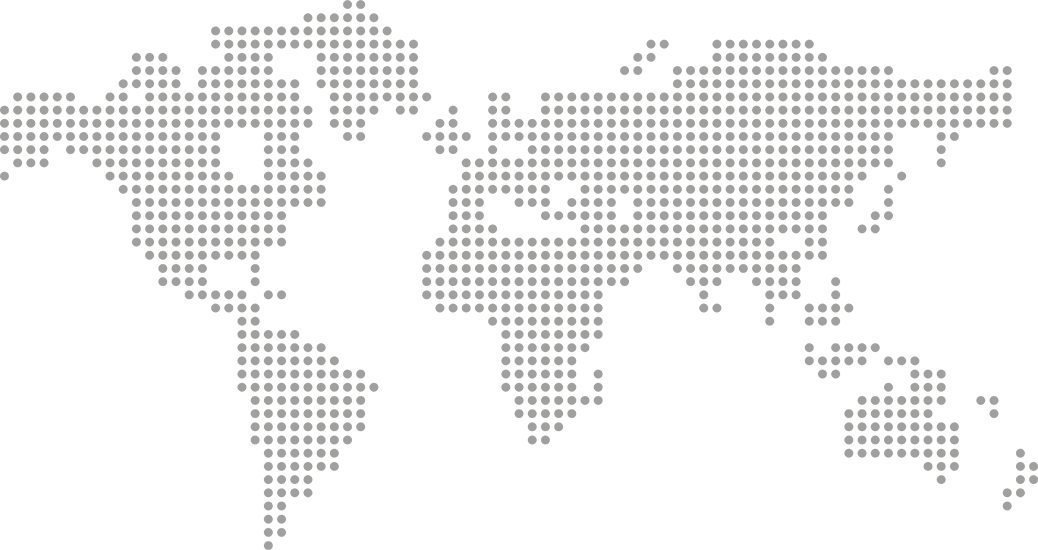
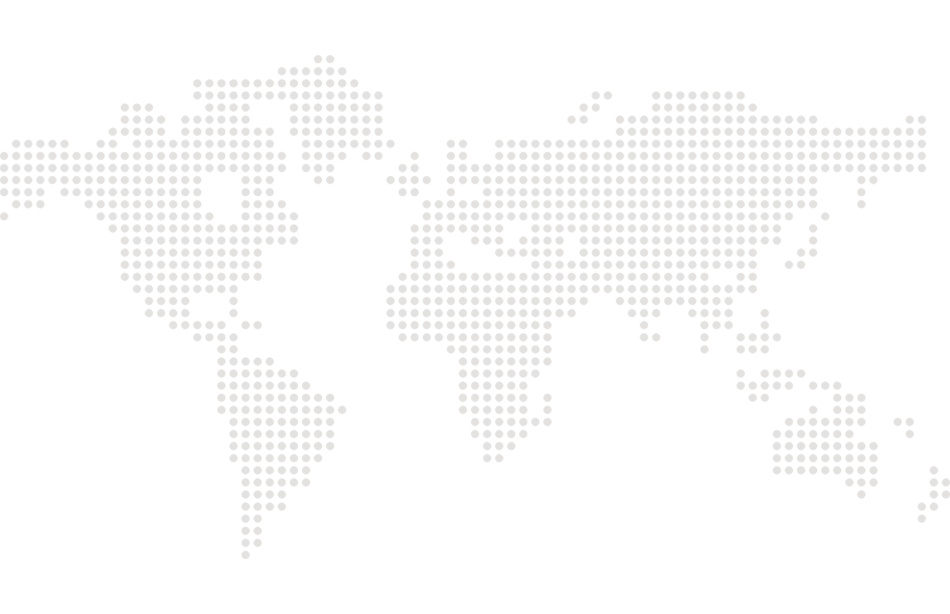
Work in progress

Changed region(s): [[0.0, 0.0, 0.9768, 1.0], [0.9768, 0.7727, 1.0, 0.8964], [0.9463, 0.8964, 0.9768, 0.9273]]

diff --git a/style/custom.css b/style/custom.css
@@ -15,25 +15,88 @@ font-family: 'Roboto', sans-serif;
         url('../fonts/Bringin/Bringin.otf') format('otf');
 }
 
-/* -- Menu part -- */
+/* -- Text styles -- */
 
-header {
-    background: url('/img/bg/header-bg.png') no-repeat;
-    background-position: center top; 
-    overflow: hidden;
+h2 {
+    font-family: 'Open Sans', sans-serif;
+    font-size: 20px;
+    font-weight: 700;
+    color: #2c2e37;
+    text-transform: uppercase;
+    letter-spacing: 2px;
 }
 
-.container-wrap {
-    width: 100%;
-    overflow: hidden;
-    background: rgba(255, 255, 255, 0.3);
+h3 {
+    font-family: 'Open Sans', sans-serif;
+    font-size: 14px;
+    font-weight: 400;
+    line-height: 30px;
+    color: #dee2e4;
 }
+
+/* -- Button style -- */
+
+button {
+    float: left;
+    background-color: #36aeea;
+    border: 3px solid transparent;
+    border-radius: 5px;
+    font-family: 'Raleway', sans-serif;
+    font-size: 14px;
+    letter-spacing: 2px;
+    text-transform: uppercase;
+    color: #ffffff;
+}
+
+button:hover {
+    background-color: transparent;
+    color: #36aeea;
+    border: 3px solid #36aeea;
+    transition: 0.5s;
+}
+
+button:active {
+    background-color: #36aeea;
+    box-shadow: inset 0 0 10px;
+}
+
+/* -- Wrappers -- */
 
 .container {
     max-width: 1140px;
     overflow: hidden;
     padding: 0 15px;
     margin: 0 auto;
+}
+
+/* -- Menu part -- */
+
+header {
+    background: url('../img/bg/header-bg.png') no-repeat;
+    background-position: center top; 
+    overflow: hidden;
+}
+
+.half-transparent {
+    width: 100%;
+    overflow: hidden;
+    background: rgba(255, 255, 255, 0.3);
+}
+
+.container a {
+    display: block;
+    float: left;
+    overflow: hidden;
+}
+
+header nav {
+    float: left;
+    overflow: hidden;
+}
+
+header nav ul {
+    float: left;
+    overflow: hidden;
 }
 
 header a img {
@@ -49,7 +112,7 @@ header ul li {
 }
 
 header ul li:hover {
-    border-bottom: 2px solid #36aeea;
+    border-bottom: 3px solid #36aeea;
 }
 
 header ul li a, a:visited {
@@ -61,30 +124,22 @@ header ul li a, a:visited {
     color: #9daeb6;
 }
 
-header button {
+.header-button {
     float: right;
     margin-top: 20px;
     padding: 13px 45px;
     background-color: transparent;
     border: 3px solid #36aeea;
-    border-radius: 5px;
-    font-family: 'Raleway', sans-serif;
     font-size: 12px;
     letter-spacing: 3px;
     text-transform: uppercase;
     color: #36aeea;
 }
 
-header button:hover {
+.header-button:hover {
     background-color: #36aeea;
     color: white;
     border: 3px solid transparent;
-    transition: 0.5s;
-}
-
-header button:active {
-    background-color: #3a95c2;
-    box-shadow: inset 0 0 10px;
 }
 
 /* -- Inside-box-on-image part -- */
@@ -115,50 +170,44 @@ header h1 span {
 }
 
 header h3 {
-    margin: 25px 60px 0 0;
-    font-family: 'Open Sans', sans-serif;
     font-size: 18px;
-    font-weight: 400;
-    line-height: 30px;
-    color: #dee2e4;
+    margin: 25px 60px 0 0;
 }
 
-header .order-button {
-    float: left;
+.order-button {
     margin-top: 25px;
     padding: 17px 75px;
-    background-color: #36aeea;
-    border: 3px solid transparent;
-    border-radius: 5px;
-    font-family: 'Raleway', sans-serif;
-    font-size: 14px;
-    letter-spacing: 2px;
-    text-transform: uppercase;
-    color: #ffffff;
-}
-
-header .order-button:hover {
-    background-color: transparent;
-    color: #36aeea;
-    text-shadow: rgb(0, 0, 0) 0 0 20px;
-    border: 3px solid #36aeea;
-    transition: 0.5s;
-}
-
-header .order-button:active {
-    background-color: #3a95c2;
-    box-shadow: inset 0 0 10px;
 }
 
 /* Section 1 */
 
-main section:nth-child(1) {
-    background: #f6f4f4;
+section:nth-child(1) {
+    background-color: #f6f4f4;
+    background-image: url('../img/section-one/world.png');
+    background-position: top center;
+    background-repeat: no-repeat;
+    display: flex;
+    justify-content: center;
+    align-items: start;
 }
 
-main section:nth-child(1) .container {
-    background: url('/img/section-one/world.png') center no-repeat;
-    opacity: 0.3;
-    padding-top: 20px;
-    padding-bottom: 600px;
+.about-text {
+    float: left;
+    width: 360px;
+    margin-top: 195px;
+}
+
+.about-text img {
+    margin-bottom: 40px;
+}
+
+section:nth-child(1) h3 {
+    color: #949494;
+    margin: 20px 0 35px 0;
+    line-height: 25px;
+}
+
+.read-button {
+    padding: 12px 23px;
+    font-size: 12px;
 }

diff --git a/index.html b/index.html
@@ -23,10 +23,10 @@
     <meta name="twitter:card" content="summary_large_image">
 
         <!-- Reset CSS -->
-    <link rel="stylesheet" href="style/reset.css">
+    <link rel="stylesheet" href="./style/reset.css">
 
         <!-- Main CSS -->
-    <link rel="stylesheet" href="style/custom.css">
+    <link rel="stylesheet" href="./style/custom.css">
 
         <!-- Google fonts -->    
     <link rel="preconnect" href="https://fonts.gstatic.com">
@@ -38,9 +38,9 @@
 
 <body>
     <header>
-      <div class="container-wrap">
+      <div class="half-transparent">
         <div class="container">
-            <a href="/"><img class="header-logo" src="/img/mountains-logo.png" alt="Mountings"></a>
+            <a href="#"><img class="header-logo" src="./img/mountains-logo.png" alt="Mountings"></a>
             <nav>
                 <ul>
                     <li><a href="#">Our story</a></li>
@@ -57,7 +57,7 @@
       </div> 
         <div class="container">
             <div class="inside-box">
-                <h1>Travel with us<br><span>to the Mountains</span></h1>
+                <h1>Travel with us <span>to the Mountains</span></h1>
                 <h3>Lorem ipsum dolor sit amet, consectetur adipisicing elit, sed do eiusmod tempor incidid</h3>
                 <button class="order-button" onclick="alert('Order by this number: +380 (96) 56-56-565')">Order now</button>
             </div>
@@ -65,10 +65,24 @@
     </header>
     <main>
         <section>
-            <div class="container">
-                  
-            </div>
+                <div class="about-text">
+                    <img src="./img/icons/waves.png" alt=" ">
+                    <h2>About us</h2>
+                    <h3>Aliquam sed posuere urna, et gravida nisl. Praesent 
+                        interdum nisl libero, pretium egestas purus eleifend 
+                        vitae. Mauris suscipit vel lectus at luctus.
+                    </h3>
+                    <button class="read-button" onclick="alert('Now you are reading more')">Read more</button>
+                </div>
+                <div class="about-imgs">
+                    <img src="./img/section-one/about-large.png" alt=" ">
+                    <img src="./img/section-one/about-small.png" alt=" ">
+                </div>
         </section>
     </main>
 </body>
 </html>
+
+<!--   
+    <img src="./img/section-one/about-small.png" alt=" ">
+-->
